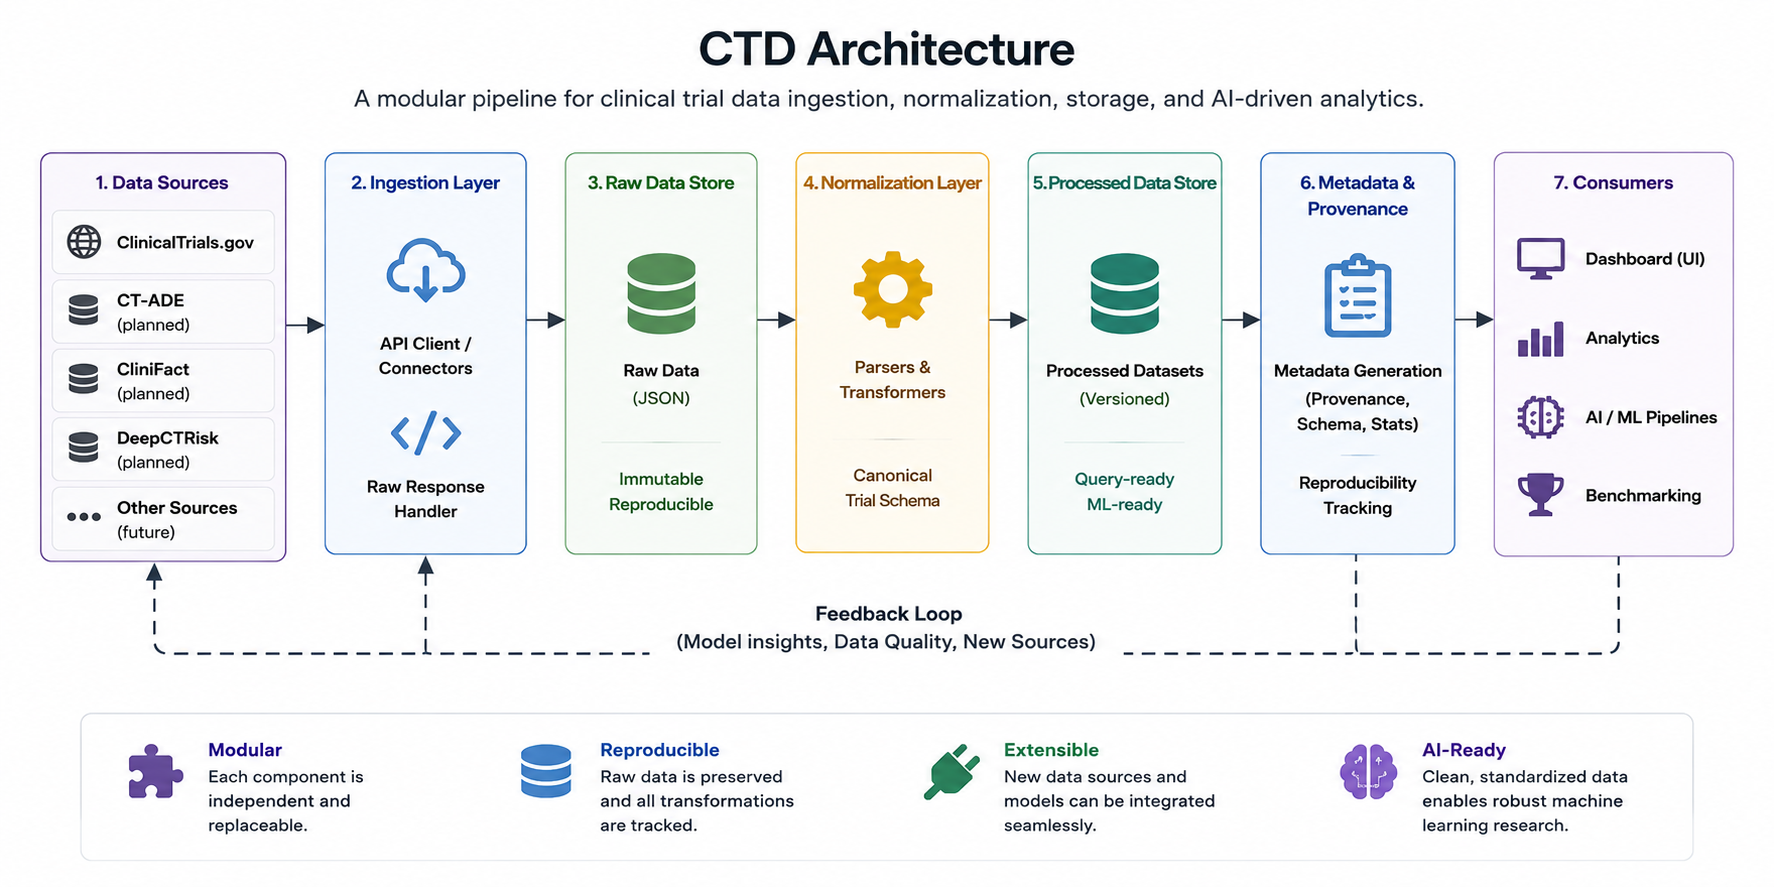
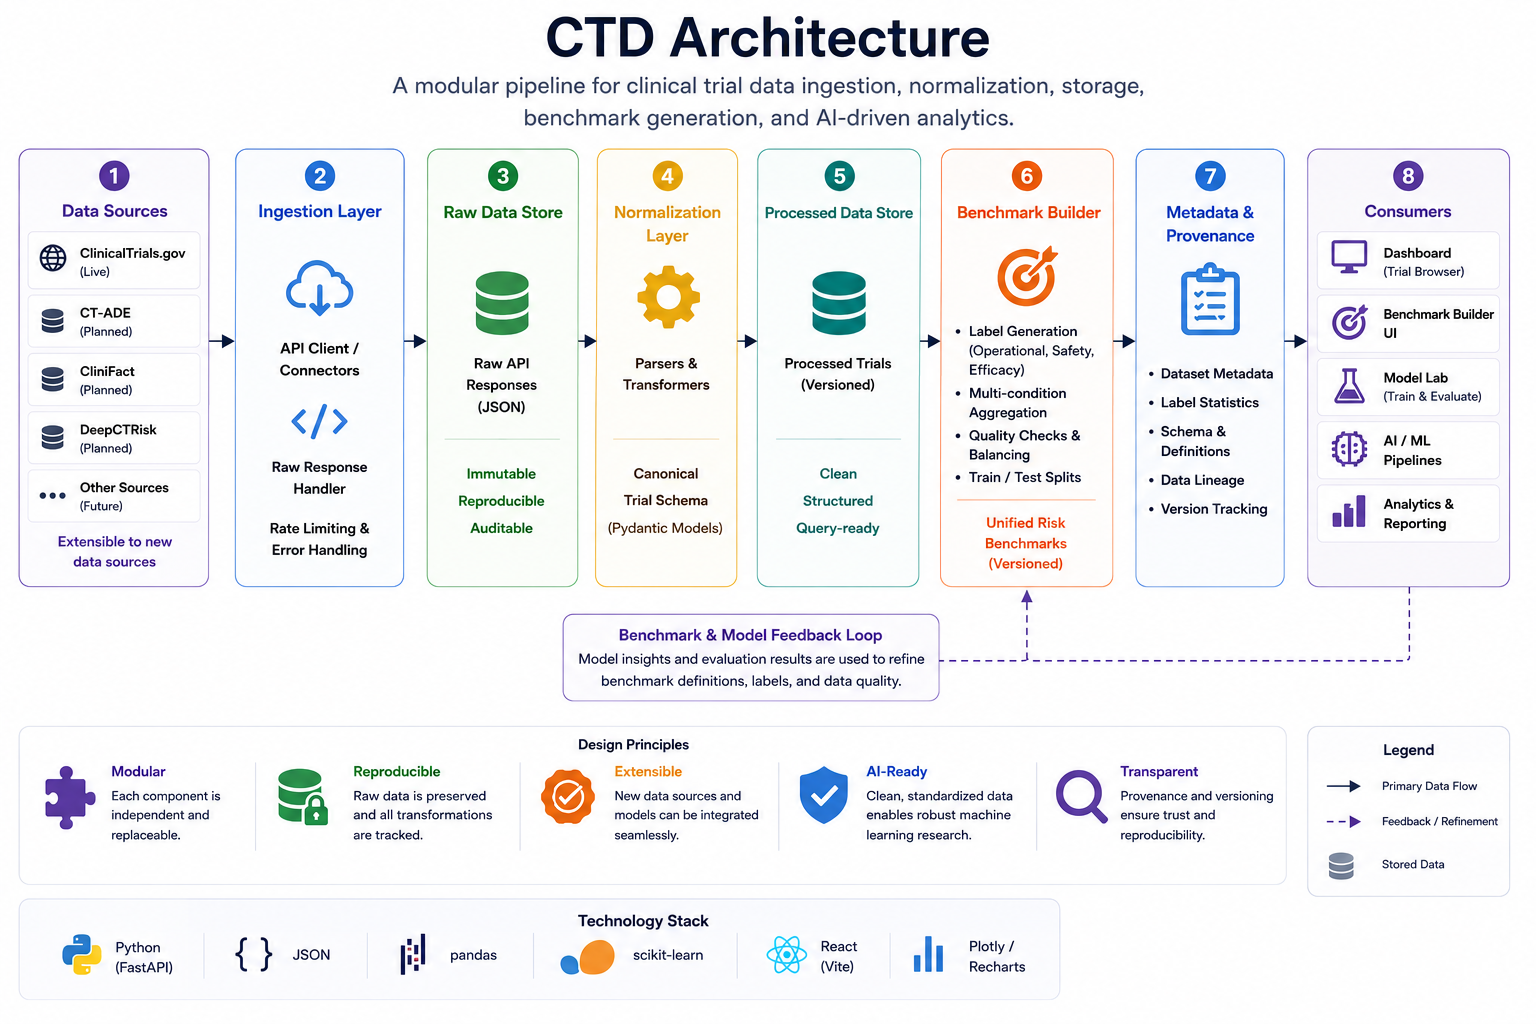
Implement unified risk benchmark architecture

diff --git a/frontend/src/App.jsx b/frontend/src/App.jsx
@@ -51,11 +51,35 @@ const [benchmarkResult, setBenchmarkResult] = useState(null);
 const [selectedModel, setSelectedModel] =
   useState("logistic_regression");
 
+const [selectedDataset, setSelectedDataset] =
+  useState("operational_risk_multi_condition");
+
+const [selectedRiskType, setSelectedRiskType] =
+  useState("operational_risk");
+
+const [availableBenchmarks, setAvailableBenchmarks] = useState([]);
+const [selectedBenchmark, setSelectedBenchmark] = useState("");
+
 // Training state and results
 const [trainingResults, setTrainingResults] = useState(null);
 const [training, setTraining] = useState(false);
-const [selectedBenchmark, setSelectedBenchmark] =
-  useState("operational_risk_multi_condition");
+
+useEffect(() => {
+  fetch("http://localhost:8000/benchmarks")
+    .then((res) => res.json())
+    .then((data) => {
+      const benchmarks = data.benchmarks || [];
+
+      setAvailableBenchmarks(benchmarks);
+
+      if (benchmarks.length > 0) {
+        setSelectedBenchmark(benchmarks[0].id);
+      }
+    })
+    .catch((err) => {
+      console.error("Failed to load benchmarks:", err);
+    });
+}, []);
 
   useEffect(() => {
     setLoading(true);
@@ -188,28 +212,43 @@ const [selectedBenchmark, setSelectedBenchmark] =
   };
 
   const trainModel = () => {
-    setTraining(true);
+      if (!selectedBenchmark) {
+        console.error("No benchmark selected");
+        return;
+      }
 
-    fetch("http://localhost:8000/models/train", {
-      method: "POST",
-      headers: {
-        "Content-Type": "application/json",
-      },
-      body: JSON.stringify({
-        benchmark: selectedBenchmark,
-        model: selectedModel,
-      }),
-    })
-      .then((res) => res.json())
-      .then((data) => {
-        setTrainingResults(data);
-        setTraining(false);
+      setTraining(true);
+
+      fetch("http://localhost:8000/models/train", {
+        method: "POST",
+        headers: {
+          "Content-Type": "application/json",
+        },
+        body: JSON.stringify({
+          benchmark: selectedBenchmark,
+          risk_type: selectedRiskType,
+          model: selectedModel,
+        }),
       })
-      .catch((err) => {
-        console.error(err);
-        setTraining(false);
-      });
-  };
+        .then(async (res) => {
+          const data = await res.json();
+
+          if (!res.ok) {
+            throw new Error(data.detail || "Training failed");
+          }
+
+          return data;
+        })
+        .then((data) => {
+          setTrainingResults(data);
+          setTraining(false);
+        })
+        .catch((err) => {
+          console.error(err);
+          alert(err.message);
+          setTraining(false);
+        });
+    };
 
   return (
     <div className="app">
@@ -632,53 +671,61 @@ const [selectedBenchmark, setSelectedBenchmark] =
 
             <section className="placeholder-panel">
 
-                <div className="model-lab-toolbar">
-                  <div className="control-group">
-                    <label>Benchmark</label>
+<div className="model-lab-toolbar">
+  <div className="control-group">
+    <label>Benchmark</label>
 
-                    <select
-                      value={selectedBenchmark}
-                      onChange={(e) => setSelectedBenchmark(e.target.value)}
-                    >
-                      <option value="operational_risk_multi_condition">
-                        Operational Risk
-                      </option>
+    <select
+      value={selectedBenchmark}
+      onChange={(e) => setSelectedBenchmark(e.target.value)}
+      disabled={availableBenchmarks.length === 0}
+    >
+      {availableBenchmarks.length === 0 ? (
+        <option value="">No benchmarks available</option>
+      ) : (
+        availableBenchmarks.map((benchmark) => (
+          <option key={benchmark.id} value={benchmark.id}>
+            {benchmark.name}
+          </option>
+        ))
+      )}
+    </select>
+  </div>
 
-                      <option value="safety_risk_multi_condition">
-                        Safety Risk
-                      </option>
-                    </select>
-                  </div>
+  <div className="control-group">
+    <label>Risk Type</label>
 
-                  <div className="control-group">
-                    <label>Model</label>
+    <select
+      value={selectedRiskType}
+      onChange={(e) => setSelectedRiskType(e.target.value)}
+    >
+      <option value="operational_risk">Operational Risk</option>
+      <option value="safety_risk">Safety Risk</option>
+      <option value="efficacy_risk">Efficacy Risk</option>
+    </select>
+  </div>
 
-                    <select
-                      value={selectedModel}
-                      onChange={(e) => setSelectedModel(e.target.value)}
-                    >
-                      <option value="logistic_regression">
-                        Logistic Regression
-                      </option>
+  <div className="control-group">
+    <label>Model</label>
 
-                      <option value="random_forest">
-                        Random Forest
-                      </option>
+    <select
+      value={selectedModel}
+      onChange={(e) => setSelectedModel(e.target.value)}
+    >
+      <option value="logistic_regression">Logistic Regression</option>
+      <option value="random_forest">Random Forest</option>
+      <option value="gradient_boosting">Gradient Boosting</option>
+    </select>
+  </div>
 
-                      <option value="gradient_boosting">
-                        Gradient Boosting
-                      </option>
-                    </select>
-                  </div>
-
-                  <button
-                    className="train-button"
-                    onClick={trainModel}
-                    disabled={training}
-                  >
-                    {training ? "Training..." : "Train Model"}
-                  </button>
-                </div>
+  <button
+    className="train-button"
+    onClick={trainModel}
+    disabled={training || !selectedBenchmark}
+  >
+    {training ? "Training..." : "Train Model"}
+  </button>
+</div>
 
               {trainingResults && (
                 <div className="benchmark-result">
@@ -687,7 +734,7 @@ const [selectedBenchmark, setSelectedBenchmark] =
                   <div className="metric-card">
                     <span className="metric-title">Precision</span>
                     <strong className="metric-value">
-                      {trainingResults.precision.toFixed(3)}
+                      {trainingResults.precision?.toFixed(3) ?? "N/A"}
                     </strong>
                     <small className="metric-help">False alarms ↓</small>
                   </div>
@@ -695,7 +742,7 @@ const [selectedBenchmark, setSelectedBenchmark] =
                   <div className="metric-card">
                     <span className="metric-title">Recall</span>
                     <strong className="metric-value">
-                      {trainingResults.recall.toFixed(3)}
+                      {trainingResults.recall?.toFixed(3) ?? "N/A"}
                     </strong>
                     <small className="metric-help">Risks found ↑</small>
                   </div>
@@ -703,7 +750,7 @@ const [selectedBenchmark, setSelectedBenchmark] =
                   <div className="metric-card">
                     <span className="metric-title">F1</span>
                     <strong className="metric-value">
-                      {trainingResults.f1.toFixed(3)}
+                      {trainingResults.f1?.toFixed(3) ?? "N/A"}
                     </strong>
                     <small className="metric-help">Precision-recall balance</small>
                   </div>
@@ -711,7 +758,7 @@ const [selectedBenchmark, setSelectedBenchmark] =
                   <div className="metric-card">
                     <span className="metric-title">MCC</span>
                     <strong className="metric-value">
-                      {trainingResults.mcc.toFixed(3)}
+                      {trainingResults.mcc?.toFixed(3) ?? "N/A"}
                     </strong>
                     <small className="metric-help">Overall signal</small>
                   </div>
@@ -719,7 +766,7 @@ const [selectedBenchmark, setSelectedBenchmark] =
                   <div className="metric-card">
                     <span className="metric-title">PR-AUC</span>
                     <strong className="metric-value">
-                      {trainingResults.pr_auc.toFixed(3)}
+                      {trainingResults.pr_auc?.toFixed(3) ?? "N/A"}
                     </strong>
                     <small className="metric-help">Minority-class performance</small>
                   </div>
@@ -727,7 +774,7 @@ const [selectedBenchmark, setSelectedBenchmark] =
                   <div className="metric-card">
                     <span className="metric-title">ROC-AUC</span>
                     <strong className="metric-value">
-                      {trainingResults.roc_auc.toFixed(3)}
+                      {trainingResults.roc_auc?.toFixed(3) ?? "N/A"}
                     </strong>
                     <small className="metric-help">Ranking ability</small>
                   </div>

diff --git a/README.md b/README.md
@@ -58,23 +58,65 @@ The CTD serves as both:
 
 ---
 
-## Architecture
+## Dashboard Preview
 
-```text
-ClinicalTrials.gov API
-        ↓
-Raw data storage
-        ↓
-Trial normalization
-        ↓
-Processed datasets
-        ↓
-Metadata generation
-        ↓
-Dashboard / Analytics / AI
-```
+The Clinical Trial Dashboard provides an interactive interface for
+exploring clinical trial datasets, inspecting study details, and
+supporting future AI-driven clinical trial analysis.
+
+### Clinical Trial Explorer
+
+![Clinical Trial Explorer](docs/images/trial_explorer.png)
+
+Interactive exploration of clinical trials with filtering by
+condition, status, phase, sponsor, and other metadata.
+
+### Trial Details View
+
+![Trial Details View](docs/images/trial_details.png)
+
+Detailed inspection of trial information, including study design,
+interventions, eligibility criteria, outcomes, and investigator
+information.
+
+### Benchmark Builder
+
+![Benchmark Builder](docs/images/benchmark_builder.png)
+
+Creation of unified benchmark datasets for clinical trial risk
+prediction. The benchmark builder supports automated data
+collection, preprocessing, label generation, and benchmark
+statistics reporting.
+
+### Model Lab
+
+![Model Lab](docs/images/model_lab.png)
+
+Training and evaluation of machine-learning models on selected
+benchmarks and risk prediction tasks, including performance
+metrics and confusion matrix analysis.
 
 ---
+
+## Architecture
+
+The CTD follows a modular pipeline that separates data ingestion,
+normalization, storage, and downstream analytics. This design
+ensures reproducibility, extensibility, and compatibility with
+future machine learning workflows.
+
+![CTD Architecture](docs/images/CTD_architecture.png)
+
+### Key Design Principles
+
+- **Modular**: Each component can be developed and replaced independently.
+- **Reproducible**: Raw data and transformations are preserved and tracked.
+- **Extensible**: New datasets and models can be integrated easily.
+- **AI-Ready**: Standardized datasets support machine learning research.
+
+The architecture is designed to support both current dashboard
+functionality and future multimodal AI pipelines for clinical
+trial risk assessment.
 
 ## Project Structure
 